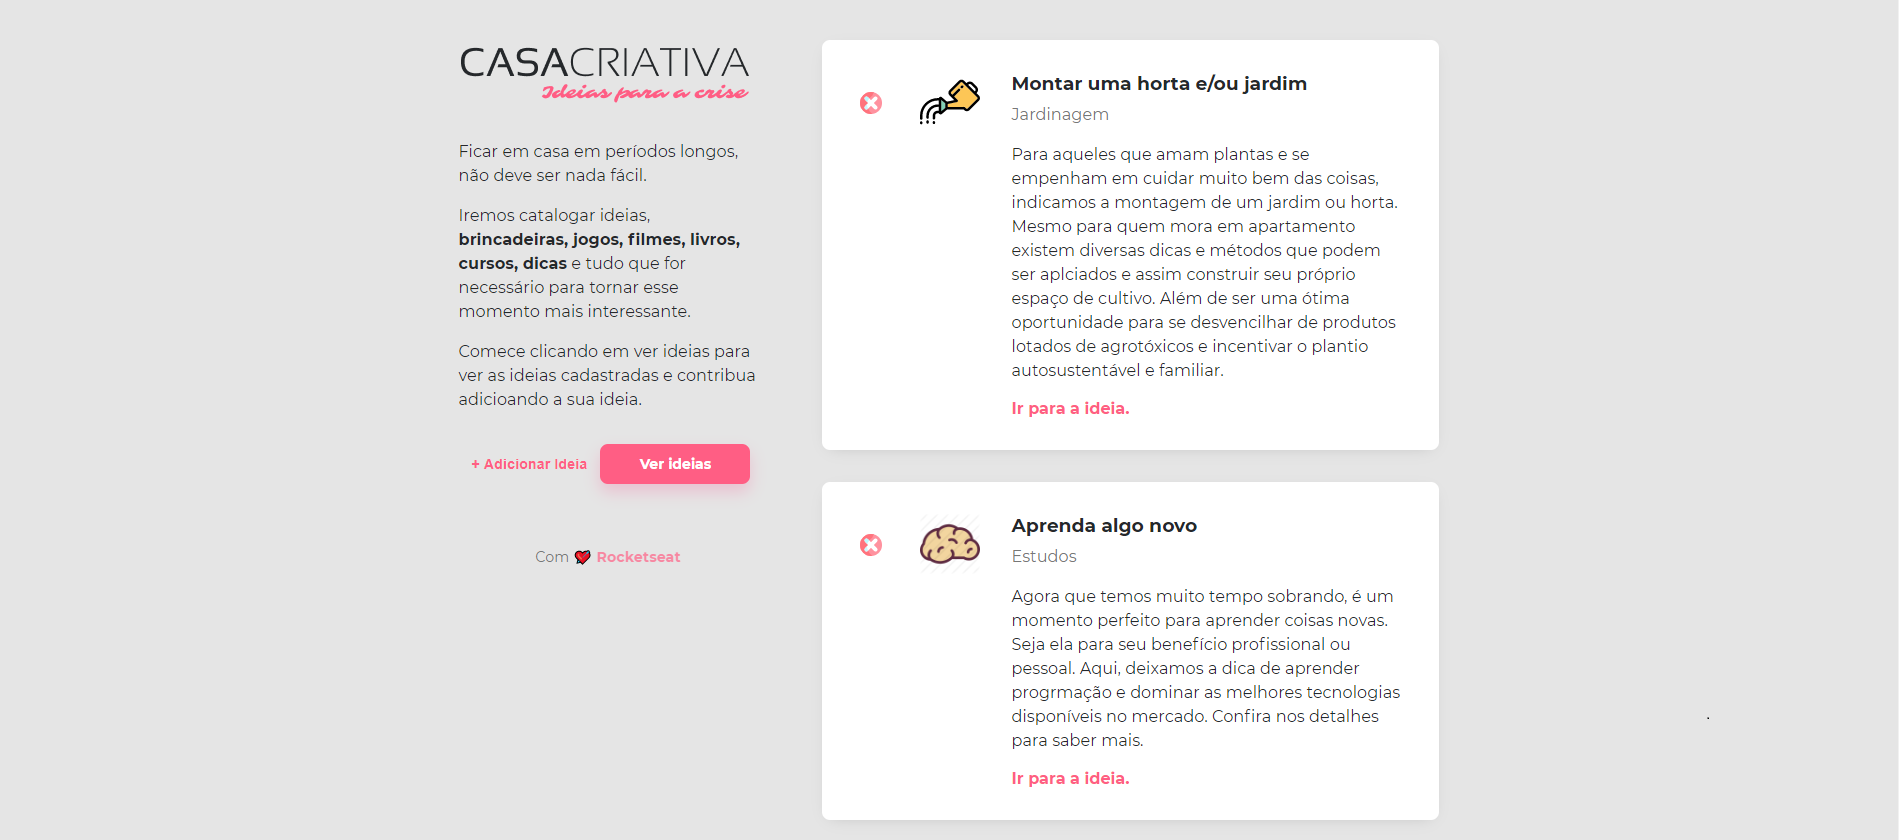
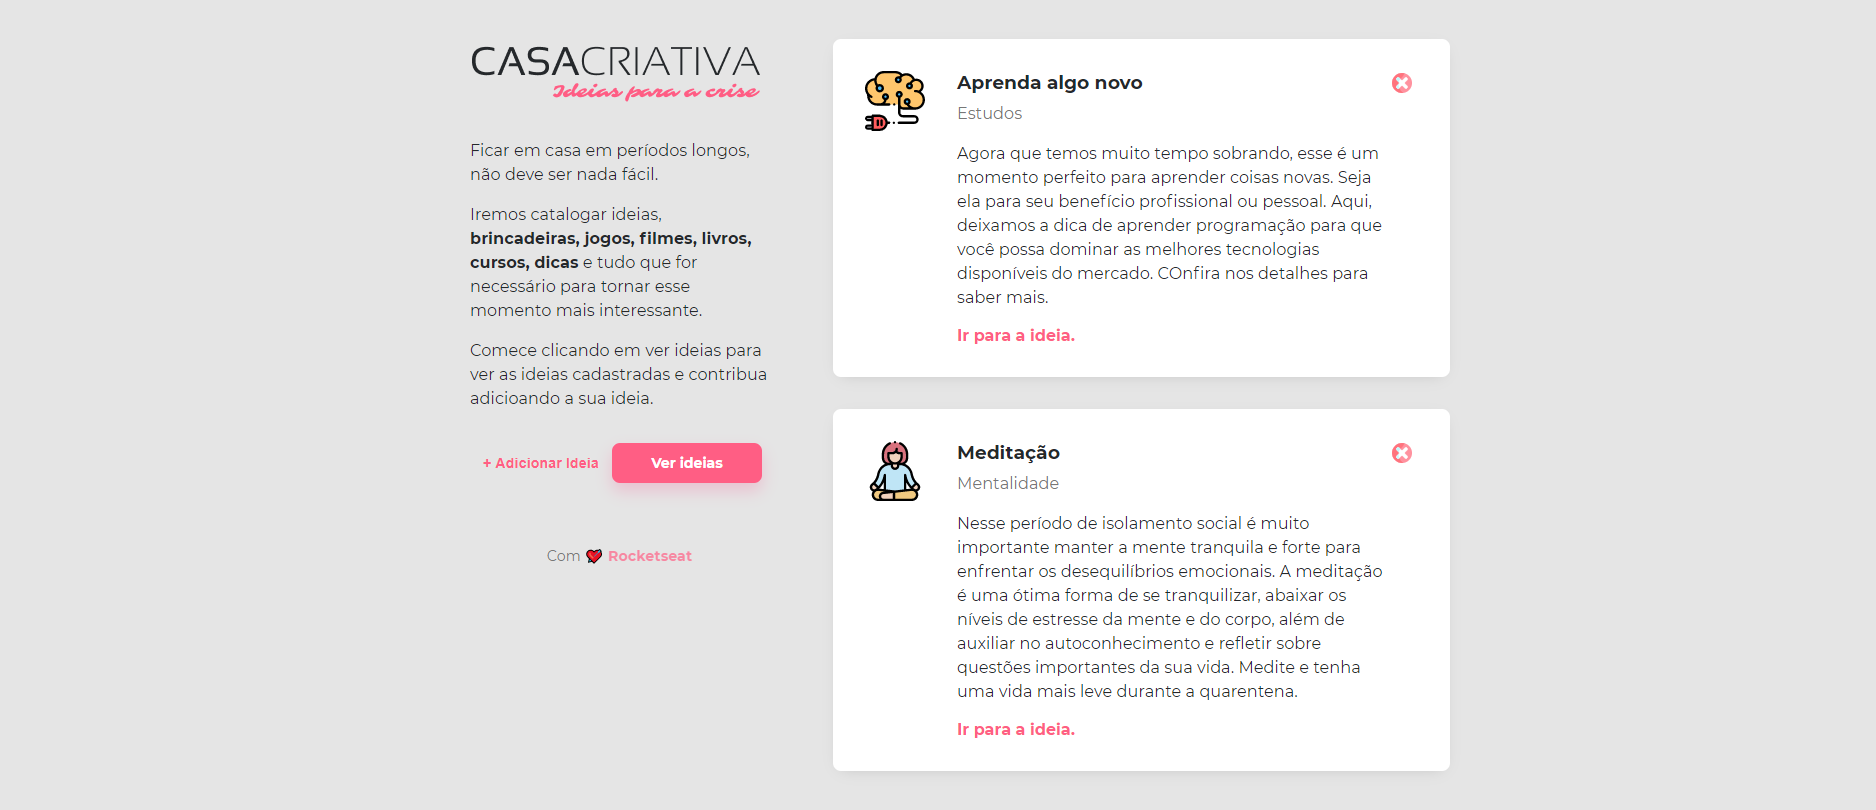
update README.md

diff --git a/server.js b/server.js
@@ -31,7 +31,7 @@ server.get("/", function(request, response) {
 
     let lastIdeas = []
     for (let idea of reversedIdeas) {
-      if (lastIdeas.length < 3) {
+      if (lastIdeas.length < 2) {
         lastIdeas.push(idea)
       } 
     }

diff --git a/README.md b/README.md
@@ -54,9 +54,9 @@ Principais tecnologias utilizadas para o desenvolvimento back-end, front-end e b
   Página de ideias
 </h2>
 
-![Ideias 1](github/ideias1.png)
-![Ideias 2](github/ideias2.png)
-![Ideias 3](github/ideias3.png)
+![Ideias ](github/ideias.png)
+<!-- ![Ideias 2](github/ideias2.png)
+![Ideias 3](github/ideias3.png) -->
 
 
 # <img alt="Icone de engrenagem" src="./github/wheel.svg" width="50px" align="center"> Rodando a aplicação 
